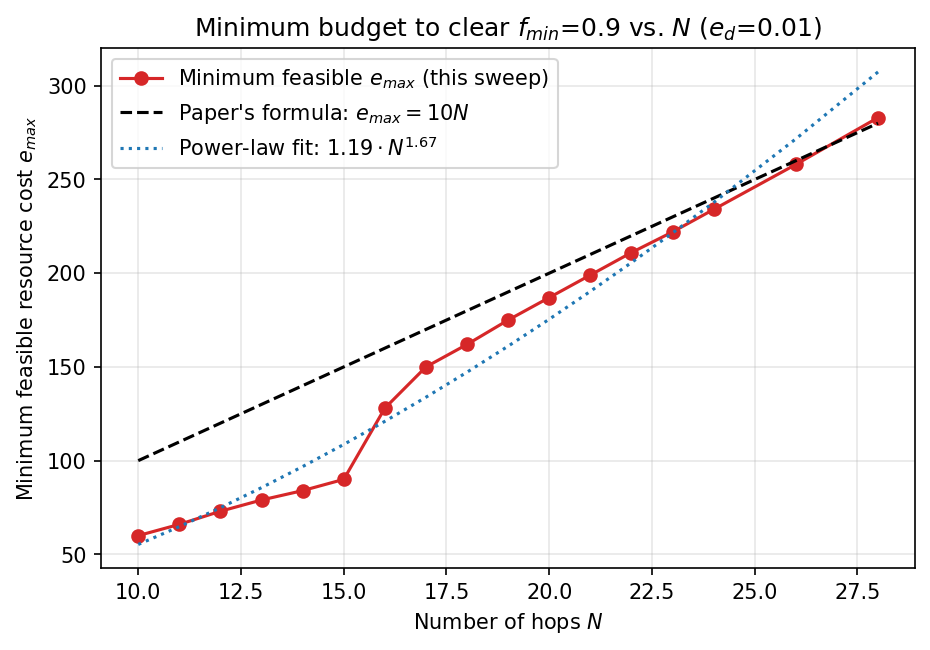
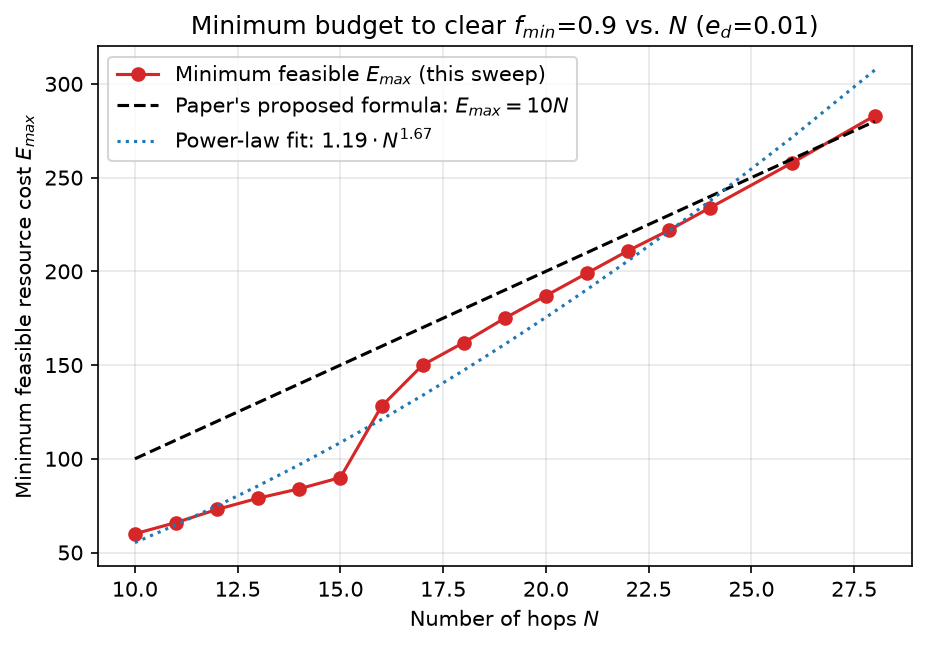
feat: fixed legend of Emax scaling with n figure

diff --git a/experiments/sweeps/sweep_min_budget_vs_n.py b/experiments/sweeps/sweep_min_budget_vs_n.py
@@ -2,35 +2,35 @@
 experiments/sweep_min_budget_vs_n.py
 =====================================
 `docs/Roadmap_Derisk_and_Reframe.md`, §2: the scaling-law question. At
-each `N` in `N_VALUES`, find the *smallest* `e_max` at which
+each `N` in `N_VALUES`, find the *smallest* `E_max` at which
 `beam_search` (unioned with `brute_force_search`'s fixed families, as
 usual) finds ANY schedule clearing the fidelity floor `f_min=0.9`,
-rather than stopping at the paper's own `e_max = 10*N` cost formula.
+rather than stopping at the paper's own `E_max = 10*N` cost formula.
 
 Method: bisection, not a linear scan [§2.1]
 --------------------------------------------
 For each `N`:
 
-1. Check feasibility at the paper's own budget, `e_max = 10*N`.
+1. Check feasibility at the paper's own budget, `E_max = 10*N`.
    Note: `10*N` comes from the paper's hardware model (5 half-RGS copies
    per side × 2 sides × N hops). The sweep has empirically found that this
    formula is first *insufficient* for beam_search's pumping-enabled families
-   at N=28 (min. feasible e_max=283 > 280, ratio 1.011x); N=26 is still
+   at N=28 (min. feasible E_max=283 > 280, ratio 1.011x); N=26 is still
    below 1.0x (0.992x). The crossover lies between N=26 and N=28 at e_d=0.01.
 2. If infeasible there (as `sweep_hop_count` already found at `N=14`,
    `N=18`): exponential-search upward -- try `4*10*N`, then double again
-   and again, until a feasible `e_max` is found.
+   and again, until a feasible `E_max` is found.
 3. If feasible there instead (as at `N<=10`, where the paper's own
    schedule already clears the floor): exponential-search *downward*
-   -- halve repeatedly until an infeasible `e_max` is found. This
+   -- halve repeatedly until an infeasible `E_max` is found. This
    direction is not spelled out explicitly in the roadmap (which frames
    the paper's budget as "already known infeasible"), but is needed for
    a full `N=10..18` trend line and follows the identical bisection
    logic in the other direction.
 4. Bisect between the last-infeasible and first-feasible point until the
-   minimum feasible `e_max` is pinned down to within `+/- 2` (`e_max` is
+   minimum feasible `E_max` is pinned down to within `+/- 2` (`E_max` is
    effectively discretized by Gen-node counts anyway).
-5. Cache every `beam_search` call by `(N, e_max)` so no point already
+5. Cache every `beam_search` call by `(N, E_max)` so no point already
    queried during the exponential search or an earlier bisection step is
    ever recomputed.
 
@@ -40,7 +40,7 @@ For each `N`:
 `brute_force_search`'s three fixed families). It does NOT include the
 excluded same-span-purification move validated at N=3/N=14/N=18. Per
 §1's result, that move rescues feasibility at N=18 at exactly the
-paper's own budget (`e_max=180`, `F=0.928596`) -- i.e. a real schedule
+paper's own budget (`E_max=180`, `F=0.928596`) -- i.e. a real schedule
 already exists there requiring no MORE than `10*N`. So any
 "minimum required budget > 10*N" claim produced by this script describes
 a limitation of the *searched* families (`beam_search`/`dp_search`'s
@@ -49,12 +49,12 @@ This distinction is stated explicitly in the generated README, per
 §2.2's explicit instruction to scope this honestly.
 
 **Bisection monotonicity caveat**: this method assumes feasibility is
-monotonically non-decreasing in `e_max` (more budget can only help).
+monotonically non-decreasing in `E_max` (more budget can only help).
 This holds for the *exact* DP frontier by construction (a larger budget
 cap is a strict superset of a smaller one's candidate space), but
 `beam_search`'s beam-pruning is a heuristic on top of that, so in
 principle a specific beam width could (rarely) miss a feasible
-candidate at a larger `e_max` that it would have found at a smaller one.
+candidate at a larger `E_max` that it would have found at a smaller one.
 No such non-monotonicity was observed in this run (see README), but this
 assumption is not proven exhaustively.
 
@@ -94,7 +94,7 @@ BEAM_WIDTH = 25
 N_VALUES = [24, 26, 28]
 
 # Safety cap on the exponential upward search, as a multiple of the
-# paper's own e_max=10*N, to avoid an unbounded doubling loop if
+# paper's own E_max=10*N, to avoid an unbounded doubling loop if
 # `beam_search`'s reachable families genuinely never clear the floor at
 # this N (would be a notable finding in itself, reported as such rather
 # than hung on).
@@ -117,7 +117,7 @@ OUTPUT_DIR = _PROJECT_ROOT / "outputs" / "sweep_min_budget_vs_n"
 def parse_args() -> argparse.Namespace:
     parser = argparse.ArgumentParser(
         description=(
-            "Sweep minimum feasible e_max vs N, or regenerate plot/README "
+            "Sweep minimum feasible E_max vs N, or regenerate plot/README "
             "from an existing concatenated results.csv."
         )
     )
@@ -167,20 +167,20 @@ def _check(
     e_max: int,
     cache: dict[int, tuple[bool, SearchResult]],
 ) -> tuple[bool, SearchResult]:
-    """Run (or retrieve cached) `beam_search` at *e_max*, return
+    """Run (or retrieve cached) `beam_search` at *E_max*, return
     `(feasible, best_result)`, restricted to candidates that actually
-    respect `resource_cost <= e_max`.
+    respect `resource_cost <= E_max`.
 
     `beam_search`'s span-partition candidates are already filtered by
-    `e_max`, but `brute_force_search`'s "raw" (`n_pur=1`) baseline family
-    is unconditionally included regardless of `e_max` (see
+    `E_max`, but `brute_force_search`'s "raw" (`n_pur=1`) baseline family
+    is unconditionally included regardless of `E_max` (see
     `brute_force.py`'s `record(ScheduleDAG.raw_chain(N), "raw")` call,
     which is not budget-gated like the `n_pur >= 2` families are). At the
-    normal budgets used elsewhere in this report (`e_max=10*N`), `raw`'s
+    normal budgets used elsewhere in this report (`E_max=10*N`), `raw`'s
     fixed cost (`2*N`) is always comfortably under budget so this never
-    mattered -- but this bisection actively probes `e_max` values well
+    mattered -- but this bisection actively probes `E_max` values well
     below `2*N`, which would otherwise let `raw` slip through as a false
-    "feasible at e_max=1" result. Re-filtering by cost here is the fix.
+    "feasible at E_max=1" result. Re-filtering by cost here is the fix.
     """
     if e_max not in cache:
         # Pumping enabled (default): this re-run uses the current
@@ -246,7 +246,7 @@ def find_min_budget(N: int) -> MinBudgetResult:
         while True:
             feasible, best = _check(net, obj, hi, cache)
             print(
-                f"  N={N}: probe e_max={hi} -> "
+                f"  N={N}: probe E_max={hi} -> "
                 f"{'feasible' if feasible else 'infeasible'}, "
                 f"F={best.eval_result.fidelity:.4f} ({time.time() - t0:.1f}s)",
                 flush=True,
@@ -257,7 +257,7 @@ def find_min_budget(N: int) -> MinBudgetResult:
             hi *= 2
             if hi > cap:
                 print(
-                    f"  N={N}: WARNING -- no feasible e_max found up to "
+                    f"  N={N}: WARNING -- no feasible E_max found up to "
                     f"{cap} ({_MAX_UPWARD_MULTIPLE}x the paper's budget); "
                     "giving up upward search, reporting best-effort result "
                     "at the cap.",
@@ -278,13 +278,13 @@ def find_min_budget(N: int) -> MinBudgetResult:
                     wall_time_s=time.time() - t0,
                 )
 
-    # Bisect between lo (infeasible, or 0 if even e_max=1 is feasible)
+    # Bisect between lo (infeasible, or 0 if even E_max=1 is feasible)
     # and hi (feasible) to within +/- _BISECTION_TOLERANCE.
     while hi - lo > _BISECTION_TOLERANCE:
         mid = (lo + hi) // 2
         feasible, best = _check(net, obj, mid, cache)
         print(
-            f"  N={N}: bisect e_max={mid} -> "
+            f"  N={N}: bisect E_max={mid} -> "
             f"{'feasible' if feasible else 'infeasible'}, "
             f"F={best.eval_result.fidelity:.4f} ({time.time() - t0:.1f}s)",
             flush=True,
@@ -297,7 +297,7 @@ def find_min_budget(N: int) -> MinBudgetResult:
     _, best_hi = _check(net, obj, hi, cache)
     elapsed = time.time() - t0
     print(
-        f"  N={N}: done, min feasible e_max={hi} "
+        f"  N={N}: done, min feasible E_max={hi} "
         f"(paper's own budget was {paper_e_max}), "
         f"{len(cache)} beam_search calls, {elapsed:.1f}s total",
         flush=True,
@@ -379,8 +379,8 @@ def read_results_csv(path: Path) -> list[MinBudgetResult]:
 
 
 def _power_law_fit(rows: list[MinBudgetResult]) -> tuple[float, float] | None:
-    """Fit `min_feasible_e_max ~ a * N^b` via least squares on
-    `log(min_feasible_e_max) = log(a) + b*log(N)`. Returns `(a, b)`, or
+    """Fit `min_feasible_E_max ~ a * N^b` via least squares on
+    `log(min_feasible_E_max) = log(a) + b*log(N)`. Returns `(a, b)`, or
     None if fewer than 2 valid points are available."""
     pts = [
         (math.log(r.N), math.log(r.min_feasible_e_max))
@@ -412,7 +412,7 @@ def make_plot(rows: list[MinBudgetResult]) -> tuple[float, float] | None:
         [r.min_feasible_e_max for r in valid],
         marker="o",
         color="tab:red",
-        label="Minimum feasible $e_{max}$ (this sweep)",
+        label="Minimum feasible $E_{max}$ (this sweep)",
     )
     ns = [r.N for r in rows]
     ax.plot(
@@ -420,7 +420,7 @@ def make_plot(rows: list[MinBudgetResult]) -> tuple[float, float] | None:
         [10 * n for n in ns],
         linestyle="--",
         color="black",
-        label="Paper's formula: $e_{max} = 10N$",
+        label="Paper's proposed formula: $E_{max} = 10N$",
     )
 
     fit = _power_law_fit(valid)
@@ -436,7 +436,7 @@ def make_plot(rows: list[MinBudgetResult]) -> tuple[float, float] | None:
         )
 
     ax.set_xlabel("Number of hops $N$")
-    ax.set_ylabel("Minimum feasible resource cost $e_{max}$")
+    ax.set_ylabel("Minimum feasible resource cost $E_{max}$")
     ax.set_title(f"Minimum budget to clear $f_{{min}}$={F_MIN} vs. $N$ ($e_d$={E_D})")
     ax.grid(alpha=0.3)
     ax.legend()
@@ -453,11 +453,11 @@ def write_readme(
     lines.append("")
     lines.append(
         "Per [docs/Roadmap_Derisk_and_Reframe.md](../../docs/Roadmap_Derisk_and_Reframe.md), "
-        "§2: at each `N`, find the smallest `e_max` at which `beam_search` "
+        "§2: at each `N`, find the smallest `E_max` at which `beam_search` "
         "(unioned with `brute_force_search`'s fixed families, as in every "
         "other sweep in this report) finds ANY schedule clearing the "
         f"fidelity floor `f_min={F_MIN}`, rather than assuming the paper's "
-        "own `e_max = 10*N` cost formula is sufficient."
+        "own `E_max = 10*N` cost formula is sufficient."
     )
     lines.append("")
     lines.append(
@@ -465,8 +465,8 @@ def write_readme(
         "[outputs/excluded_move_n14_n18/README.md](../excluded_move_n14_n18/README.md) "
         "found that the excluded same-span-purification move (out of scope "
         "for `dp_search`/`beam_search`) rescues feasibility at `N=18` at "
-        "exactly the paper's own budget (`e_max=180`, `F=0.928596`). So any "
-        "row below reporting `min_feasible_e_max > paper_e_max` describes a "
+        "exactly the paper's own budget (`E_max=180`, `F=0.928596`). So any "
+        "row below reporting `min_feasible_E_max > paper_E_max` describes a "
         "limitation of the schedule families `beam_search` can reach, "
         "**not** a true lower bound on what any valid schedule needs at that "
         "`N`. This is a claim about this codebase's searched families, "
@@ -477,7 +477,7 @@ def write_readme(
     lines.append("## Results")
     lines.append("")
     lines.append(
-        "| N | Paper's $e_{max}=10N$ | Min. feasible $e_{max}$ (this sweep) | "
+        "| N | Paper's $E_{max}=10N$ | Min. feasible $E_{max}$ (this sweep) | "
         "Ratio | Best F at min. budget | Best label |"
     )
     lines.append("|---|---|---|---|---|---|")
@@ -499,7 +499,7 @@ def write_readme(
         a, b = fit
         lines.append(
             f"**Descriptive power-law fit** (least squares on log-log data, "
-            f"valid points only): $e_{{max}}^{{min}} \\approx {a:.3f} \\cdot "
+            f"valid points only): $E_{{max}}^{{min}} \\approx {a:.3f} \\cdot "
             f"N^{{{b:.3f}}}$. "
             + (
                 "The fitted exponent exceeds 1, i.e. the minimum required "
@@ -528,8 +528,8 @@ def write_readme(
     lines.append("")
     for r in rows:
         lines.append(
-            f"- **N={r.N}**: paper's `e_max`={r.paper_e_max}, min. feasible "
-            f"`e_max`={'not found' if r.min_feasible_e_max < 0 else r.min_feasible_e_max}, "
+            f"- **N={r.N}**: paper's `E_max`={r.paper_e_max}, min. feasible "
+            f"`E_max`={'not found' if r.min_feasible_e_max < 0 else r.min_feasible_e_max}, "
             f"best schedule found there: `{r.best_label}`, F={r.best_fidelity:.4f}, "
             f"success_prob={r.best_success_prob:.4f}, rate={r.best_rate:.4f}, "
             f"cost={r.best_cost}. ({r.n_beam_search_calls} `beam_search` calls, "
@@ -541,16 +541,16 @@ def write_readme(
     lines.append("")
     lines.append(
         "- Bisection assumes feasibility is monotonically non-decreasing in "
-        "`e_max`. This holds for the exact DP frontier by construction, but "
+        "`E_max`. This holds for the exact DP frontier by construction, but "
         "`beam_search`'s beam-pruning is a heuristic on top of that -- no "
         "non-monotonicity was observed in this run's cached probe history "
         "(see `results.csv` for the final endpoints), but this was not "
         "exhaustively verified at every intermediate probe."
     )
     lines.append(
-        "- The minimum feasible `e_max` is pinned down to within "
+        "- The minimum feasible `E_max` is pinned down to within "
         f"`+/- {_BISECTION_TOLERANCE}`, not exactly, consistent with "
-        "`e_max` being discretized by Gen-node counts anyway."
+        "`E_max` being discretized by Gen-node counts anyway."
     )
     lines.append("")
 

diff --git a/experiments/thesis_scripts/_thesis_fig_budget.py b/experiments/thesis_scripts/_thesis_fig_budget.py
@@ -91,7 +91,7 @@ def main() -> None:
         linestyle="--",
         color="black",
         linewidth=1.3,
-        label="Paper's formula: $E_{max}=10N$",
+        label="Paper's proposed formula: $E_{max}=10N$",
     )
 
     # Fitted power law: solid over the measured range, dotted/lighter
@@ -126,7 +126,7 @@ def main() -> None:
         linestyle=":",
         color="tab:blue",
         alpha=0.6,
-        label="Power-law fit (extrapolated beyond N=10--28)",
+        label="Power-law fit (extrapolated beyond N=10-28)",
     )
 
     ax.scatter(
@@ -136,7 +136,7 @@ def main() -> None:
         marker="o",
         s=32,
         zorder=3,
-        label="Minimum feasible $E_{max}$ (measured, N=10--28)",
+        label="Minimum feasible $E_{max}^{min}$ (measured, N=10-28)",
     )
 
     ax.set_xlabel("Number of hops $N$", fontsize=11)

diff --git a/outputs/sweep_min_budget_vs_n/README.md b/outputs/sweep_min_budget_vs_n/README.md
@@ -1,12 +1,12 @@
 # Minimum Required Budget vs. N (the scaling-law question)
 
-Per [docs/Roadmap_Derisk_and_Reframe.md](../../docs/Roadmap_Derisk_and_Reframe.md), §2: at each `N`, find the smallest `e_max` at which `beam_search` (unioned with `brute_force_search`'s fixed families, as in every other sweep in this report) finds ANY schedule clearing the fidelity floor `f_min=0.9`, rather than assuming the paper's own `e_max = 10*N` cost formula is sufficient.
+Per [docs/Roadmap_Derisk_and_Reframe.md](../../docs/Roadmap_Derisk_and_Reframe.md), §2: at each `N`, find the smallest `E_max` at which `beam_search` (unioned with `brute_force_search`'s fixed families, as in every other sweep in this report) finds ANY schedule clearing the fidelity floor `f_min=0.9`, rather than assuming the paper's own `E_max = 10*N` cost formula is sufficient.
 
-**Scoping note (required by §2.2, carried over from §1's result):** [outputs/excluded_move_n14_n18/README.md](../excluded_move_n14_n18/README.md) found that the excluded same-span-purification move (out of scope for `dp_search`/`beam_search`) rescues feasibility at `N=18` at exactly the paper's own budget (`e_max=180`, `F=0.928596`). So any row below reporting `min_feasible_e_max > paper_e_max` describes a limitation of the schedule families `beam_search` can reach, **not** a true lower bound on what any valid schedule needs at that `N`. This is a claim about this codebase's searched families, consistent with the hedge used throughout [docs/Optimality Scope.md](../../docs/Optimality%20Scope.md).
+**Scoping note (required by §2.2, carried over from §1's result):** [outputs/excluded_move_n14_n18/README.md](../excluded_move_n14_n18/README.md) found that the excluded same-span-purification move (out of scope for `dp_search`/`beam_search`) rescues feasibility at `N=18` at exactly the paper's own budget (`E_max=180`, `F=0.928596`). So any row below reporting `min_feasible_E_max > paper_E_max` describes a limitation of the schedule families `beam_search` can reach, **not** a true lower bound on what any valid schedule needs at that `N`. This is a claim about this codebase's searched families, consistent with the hedge used throughout [docs/Optimality Scope.md](../../docs/Optimality%20Scope.md).
 
 ## Results
 
-| N | Paper's $e_{max}=10N$ | Min. feasible $e_{max}$ (this sweep) | Ratio | Best F at min. budget | Best label |
+| N | Paper's $E_{max}=10N$ | Min. feasible $E_{max}$ (this sweep) | Ratio | Best F at min. budget | Best label |
 |---|---|---|---|---|---|
 | 10 | 100 | 60 | 0.600x | 0.9063 | end_optimistic.n3.YY_ZX |
 | 11 | 110 | 66 | 0.600x | 0.9282 | link.n3.YY_ZX |
@@ -26,34 +26,34 @@ Per [docs/Roadmap_Derisk_and_Reframe.md](../../docs/Roadmap_Derisk_and_Reframe.m
 | 26 | 260 | 258 | 0.992x | 0.9014 | beam.span.(pump[YY](hop0.n3.YY_ZX,hop0.n3.YY_ZX)+(pump[YY](hop1.n3.YY_ZX,hop1.n3.YY_ZX)+(pump[YY](hop2.n3.YY_ZX,hop2.n3.YY_ZX)+(pump[YY](hop3.n3.YY_ZX,hop3.n3.YY_ZX)+(pump[YY](hop4.n3.YY_ZX,hop4.n3.YY_ZX)+(pump[YY](hop5.n3.YY_ZX,hop5.n3.YY_ZX)+(pump[YY](hop6.n3.YY_ZX,hop6.n3.YY_ZX)+(pump[YY](hop7.n3.YY_ZX,hop7.n3.YY_ZX)+(pump[YY](hop8.n3.YY_ZX,hop8.n3.YY_ZX)+(pump[YY](hop9.n3.YY_ZX,hop9.n3.YY_ZX)+(pump[YY](hop10.n3.YY_ZX,hop10.n3.YY_ZX)+(pump[YY](hop11.n3.YY_ZX,hop11.n3.YY_ZX)+(pump[YY](hop12.n3.YY_ZX,hop12.n3.YY_ZX)+(pump[YY](hop13.n3.YY_ZX,hop13.n3.YY_ZX)+(pump[YY](hop14.n3.YY_ZX,hop14.n3.YY_ZX)+(pump[YY](hop15.n3.YY_ZX,hop15.n3.YY_ZX)+(pump[YY](hop16.n3.YY_ZX,hop16.n3.YY_ZX)+(pump[YY](hop17.n3.YY_ZX,hop17.n3.YY_ZX)+(pump[YY](hop18.n3.YY_ZX,hop18.n3.YY_ZX)+(pump[YY](hop19.n3.YY_ZX,hop19.n3.YY_ZX)+(hop20.n3.ZX_YY+(hop21.n2.YY+((hop22+hop23)+(hop24+hop25)))))))))))))))))))))))) |
 | 28 | 280 | 283 | 1.011x | 0.9010 | beam.span.(pump[YY](hop0.n3.YY_ZX,hop0.n3.YY_ZX)+(pump[YY](hop1.n3.YY_ZX,hop1.n3.YY_ZX)+(pump[YY](hop2.n3.YY_ZX,hop2.n3.YY_ZX)+(pump[YY](hop3.n3.YY_ZX,hop3.n3.YY_ZX)+(pump[YY](hop4.n3.YY_ZX,hop4.n3.YY_ZX)+(pump[YY](hop5.n3.YY_ZX,hop5.n3.YY_ZX)+(pump[YY](hop6.n3.YY_ZX,hop6.n3.YY_ZX)+(pump[YY](hop7.n3.YY_ZX,hop7.n3.YY_ZX)+(pump[YY](hop8.n3.YY_ZX,hop8.n3.YY_ZX)+(pump[YY](hop9.n3.YY_ZX,hop9.n3.YY_ZX)+(pump[YY](hop10.n3.YY_ZX,hop10.n3.YY_ZX)+(pump[YY](hop11.n3.YY_ZX,hop11.n3.YY_ZX)+(pump[YY](hop12.n3.YY_ZX,hop12.n3.YY_ZX)+(pump[YY](hop13.n3.YY_ZX,hop13.n3.YY_ZX)+(pump[YY](hop14.n3.YY_ZX,hop14.n3.YY_ZX)+(pump[YY](hop15.n3.YY_ZX,hop15.n3.YY_ZX)+(pump[YY](hop16.n3.YY_ZX,hop16.n3.YY_ZX)+(pump[YY](hop17.n3.YY_ZX,hop17.n3.YY_ZX)+(pump[YY](hop18.n3.YY_ZX,hop18.n3.YY_ZX)+(pump[YY](hop19.n3.YY_ZX,hop19.n3.YY_ZX)+(pump[YY](hop20.n3.YY_ZX,hop20.n3.YY_ZX)+(pump[YY](hop21.n3.YY_ZX,hop21.n3.YY_ZX)+(hop22.n3.ZX_YY+(hop23.n2.YY+((hop24+hop25)+(hop26+hop27)))))))))))))))))))))))))) |
 
-**Descriptive power-law fit** (least squares on log-log data, valid points only): $e_{max}^{min} \approx 1.192 \cdot N^{1.666}$. The fitted exponent exceeds 1, i.e. the minimum required budget within this sweep's searched families grows faster than the paper's own linear `10*N` formula.
+**Descriptive power-law fit** (least squares on log-log data, valid points only): $E_{max}^{min} \approx 1.192 \cdot N^{1.666}$. The fitted exponent exceeds 1, i.e. the minimum required budget within this sweep's searched families grows faster than the paper's own linear `10*N` formula.
 
 This fit is descriptive, not a rigorous asymptotic claim -- it is over a small number of points (17) and is sensitive to the specific N values tested.
 
 ## Details
 
-- **N=10**: paper's `e_max`=100, min. feasible `e_max`=60, best schedule found there: `end_optimistic.n3.YY_ZX`, F=0.9063, success_prob=0.6196, rate=6195.9511, cost=60. (7 `beam_search` calls, 79.2s.)
-- **N=11**: paper's `e_max`=110, min. feasible `e_max`=66, best schedule found there: `link.n3.YY_ZX`, F=0.9282, success_prob=0.5573, rate=5066.5521, cost=66. (7 `beam_search` calls, 120.2s.)
-- **N=12**: paper's `e_max`=120, min. feasible `e_max`=73, best schedule found there: `link.n3.YY_ZX`, F=0.9222, success_prob=0.5285, rate=4403.9523, cost=72. (7 `beam_search` calls, 159.7s.)
-- **N=13**: paper's `e_max`=130, min. feasible `e_max`=79, best schedule found there: `link.n3.YY_ZX`, F=0.9163, success_prob=0.5011, rate=3854.7761, cost=78. (7 `beam_search` calls, 230.1s.)
-- **N=14**: paper's `e_max`=140, min. feasible `e_max`=84, best schedule found there: `link.n3.YY_ZX`, F=0.9104, success_prob=0.4752, rate=3394.1664, cost=84. (7 `beam_search` calls, 290.1s.)
-- **N=15**: paper's `e_max`=150, min. feasible `e_max`=90, best schedule found there: `link.n3.YY_ZX`, F=0.9047, success_prob=0.4506, rate=3003.9213, cost=90. (7 `beam_search` calls, 393.4s.)
-- **N=16**: paper's `e_max`=160, min. feasible `e_max`=128, best schedule found there: `link.n4.YY_ZX_YY`, F=0.9003, success_prob=0.3095, rate=1934.3196, cost=128. (8 `beam_search` calls, 571.4s.)
-- **N=17**: paper's `e_max`=170, min. feasible `e_max`=150, best schedule found there: `beam.span.(pump[YY](hop0.n3.YY_ZX,hop0.n3.YY_ZX)+(pump[YY](hop1.n3.YY_ZX,hop1.n3.YY_ZX)+(pump[YY](hop2.n3.YY_ZX,hop2.n3.YY_ZX)+(pump[YY](hop3.n3.YY_ZX,hop3.n3.YY_ZX)+(pump[YY](hop4.n3.YY_ZX,hop4.n3.YY_ZX)+(pump[YY](hop5.n3.YY_ZX,hop5.n3.YY_ZX)+(pump[YY](hop6.n3.YY_ZX,hop6.n3.YY_ZX)+(pump[YY](hop7.n3.YY_ZX,hop7.n3.YY_ZX)+(pump[YY](hop8.n3.YY_ZX,hop8.n3.YY_ZX)+(pump[YY](hop9.n3.YY_ZX,hop9.n3.YY_ZX)+(pump[YY](hop10.n3.YY_ZX,hop10.n3.YY_ZX)+(hop11.n3.ZX_YY+(hop12.n2.YY+((hop13+hop14)+(hop15+hop16)))))))))))))))`, F=0.9032, success_prob=0.2465, rate=1449.8993, cost=150. (7 `beam_search` calls, 628.7s.)
-- **N=18**: paper's `e_max`=180, min. feasible `e_max`=162, best schedule found there: `beam.span.(pump[YY](hop0.n3.YY_ZX,hop0.n3.YY_ZX)+(pump[YY](hop1.n3.YY_ZX,hop1.n3.YY_ZX)+(pump[YY](hop2.n3.YY_ZX,hop2.n3.YY_ZX)+(pump[YY](hop3.n3.YY_ZX,hop3.n3.YY_ZX)+(pump[YY](hop4.n3.YY_ZX,hop4.n3.YY_ZX)+(pump[YY](hop5.n3.YY_ZX,hop5.n3.YY_ZX)+(pump[YY](hop6.n3.YY_ZX,hop6.n3.YY_ZX)+(pump[YY](hop7.n3.YY_ZX,hop7.n3.YY_ZX)+(pump[YY](hop8.n3.YY_ZX,hop8.n3.YY_ZX)+(pump[YY](hop9.n3.YY_ZX,hop9.n3.YY_ZX)+(pump[YY](hop10.n3.YY_ZX,hop10.n3.YY_ZX)+(pump[YY](hop11.n3.YY_ZX,hop11.n3.YY_ZX)+(hop12.n3.ZX_YY+(hop13.n2.YY+((hop14+hop15)+(hop16+hop17))))))))))))))))`, F=0.9030, success_prob=0.2186, rate=1214.4122, cost=162. (8 `beam_search` calls, 915.7s.)
-- **N=19**: paper's `e_max`=190, min. feasible `e_max`=175, best schedule found there: `beam.span.(pump[YY](hop0.n3.YY_ZX,hop0.n3.YY_ZX)+(pump[YY](hop1.n3.YY_ZX,hop1.n3.YY_ZX)+(pump[YY](hop2.n3.YY_ZX,hop2.n3.YY_ZX)+(pump[YY](hop3.n3.YY_ZX,hop3.n3.YY_ZX)+(pump[YY](hop4.n3.YY_ZX,hop4.n3.YY_ZX)+(pump[YY](hop5.n3.YY_ZX,hop5.n3.YY_ZX)+(pump[YY](hop6.n3.YY_ZX,hop6.n3.YY_ZX)+(pump[YY](hop7.n3.YY_ZX,hop7.n3.YY_ZX)+(pump[YY](hop8.n3.YY_ZX,hop8.n3.YY_ZX)+(pump[YY](hop9.n3.YY_ZX,hop9.n3.YY_ZX)+(pump[YY](hop10.n3.YY_ZX,hop10.n3.YY_ZX)+(pump[YY](hop11.n3.YY_ZX,hop11.n3.YY_ZX)+(pump[YY](hop12.n3.YY_ZX,hop12.n3.YY_ZX)+(hop13.n3.ZX_YY+(hop14.n2.YY+((hop15+hop16)+(hop17+hop18)))))))))))))))))`, F=0.9028, success_prob=0.1939, rate=1020.3212, cost=174. (8 `beam_search` calls, 1073.1s.)
-- **N=20**: paper's `e_max`=200, min. feasible `e_max`=187, best schedule found there: `beam.span.(pump[YY](hop0.n3.YY_ZX,hop0.n3.YY_ZX)+(pump[YY](hop1.n3.YY_ZX,hop1.n3.YY_ZX)+(pump[YY](hop2.n3.YY_ZX,hop2.n3.YY_ZX)+(pump[YY](hop3.n3.YY_ZX,hop3.n3.YY_ZX)+(pump[YY](hop4.n3.YY_ZX,hop4.n3.YY_ZX)+(pump[YY](hop5.n3.YY_ZX,hop5.n3.YY_ZX)+(pump[YY](hop6.n3.YY_ZX,hop6.n3.YY_ZX)+(pump[YY](hop7.n3.YY_ZX,hop7.n3.YY_ZX)+(pump[YY](hop8.n3.YY_ZX,hop8.n3.YY_ZX)+(pump[YY](hop9.n3.YY_ZX,hop9.n3.YY_ZX)+(pump[YY](hop10.n3.YY_ZX,hop10.n3.YY_ZX)+(pump[YY](hop11.n3.YY_ZX,hop11.n3.YY_ZX)+(pump[YY](hop12.n3.YY_ZX,hop12.n3.YY_ZX)+(pump[YY](hop13.n3.YY_ZX,hop13.n3.YY_ZX)+(hop14.n3.ZX_YY+(hop15.n2.YY+((hop16+hop17)+(hop18+hop19))))))))))))))))))`, F=0.9026, success_prob=0.1719, rate=859.6317, cost=186. (8 `beam_search` calls, 1230.7s.)
-- **N=21**: paper's `e_max`=210, min. feasible `e_max`=199, best schedule found there: `beam.span.(pump[YY](hop0.n3.YY_ZX,hop0.n3.YY_ZX)+(pump[YY](hop1.n3.YY_ZX,hop1.n3.YY_ZX)+(pump[YY](hop2.n3.YY_ZX,hop2.n3.YY_ZX)+(pump[YY](hop3.n3.YY_ZX,hop3.n3.YY_ZX)+(pump[YY](hop4.n3.YY_ZX,hop4.n3.YY_ZX)+(pump[YY](hop5.n3.YY_ZX,hop5.n3.YY_ZX)+(pump[YY](hop6.n3.YY_ZX,hop6.n3.YY_ZX)+(pump[YY](hop7.n3.YY_ZX,hop7.n3.YY_ZX)+(pump[YY](hop8.n3.YY_ZX,hop8.n3.YY_ZX)+(pump[YY](hop9.n3.YY_ZX,hop9.n3.YY_ZX)+(pump[YY](hop10.n3.YY_ZX,hop10.n3.YY_ZX)+(pump[YY](hop11.n3.YY_ZX,hop11.n3.YY_ZX)+(pump[YY](hop12.n3.YY_ZX,hop12.n3.YY_ZX)+(pump[YY](hop13.n3.YY_ZX,hop13.n3.YY_ZX)+(pump[YY](hop14.n3.YY_ZX,hop14.n3.YY_ZX)+(hop15.n3.ZX_YY+(hop16.n2.YY+((hop17+hop18)+(hop19+hop20)))))))))))))))))))`, F=0.9024, success_prob=0.1525, rate=726.0641, cost=198. (8 `beam_search` calls, 1223.5s.)
-- **N=22**: paper's `e_max`=220, min. feasible `e_max`=211, best schedule found there: `beam.span.(pump[YY](hop0.n3.YY_ZX,hop0.n3.YY_ZX)+(pump[YY](hop1.n3.YY_ZX,hop1.n3.YY_ZX)+(pump[YY](hop2.n3.YY_ZX,hop2.n3.YY_ZX)+(pump[YY](hop3.n3.YY_ZX,hop3.n3.YY_ZX)+(pump[YY](hop4.n3.YY_ZX,hop4.n3.YY_ZX)+(pump[YY](hop5.n3.YY_ZX,hop5.n3.YY_ZX)+(pump[YY](hop6.n3.YY_ZX,hop6.n3.YY_ZX)+(pump[YY](hop7.n3.YY_ZX,hop7.n3.YY_ZX)+(pump[YY](hop8.n3.YY_ZX,hop8.n3.YY_ZX)+(pump[YY](hop9.n3.YY_ZX,hop9.n3.YY_ZX)+(pump[YY](hop10.n3.YY_ZX,hop10.n3.YY_ZX)+(pump[YY](hop11.n3.YY_ZX,hop11.n3.YY_ZX)+(pump[YY](hop12.n3.YY_ZX,hop12.n3.YY_ZX)+(pump[YY](hop13.n3.YY_ZX,hop13.n3.YY_ZX)+(pump[YY](hop14.n3.YY_ZX,hop14.n3.YY_ZX)+(pump[YY](hop15.n3.YY_ZX,hop15.n3.YY_ZX)+(hop16.n3.ZX_YY+(hop17.n2.YY+((hop18+hop19)+(hop20+hop21))))))))))))))))))))`, F=0.9022, success_prob=0.1352, rate=614.6438, cost=210. (8 `beam_search` calls, 1457.6s.)
-- **N=23**: paper's `e_max`=230, min. feasible `e_max`=222, best schedule found there: `beam.span.(pump[YY](hop0.n3.YY_ZX,hop0.n3.YY_ZX)+(pump[YY](hop1.n3.YY_ZX,hop1.n3.YY_ZX)+(pump[YY](hop2.n3.YY_ZX,hop2.n3.YY_ZX)+(pump[YY](hop3.n3.YY_ZX,hop3.n3.YY_ZX)+(pump[YY](hop4.n3.YY_ZX,hop4.n3.YY_ZX)+(pump[YY](hop5.n3.YY_ZX,hop5.n3.YY_ZX)+(pump[YY](hop6.n3.YY_ZX,hop6.n3.YY_ZX)+(pump[YY](hop7.n3.YY_ZX,hop7.n3.YY_ZX)+(pump[YY](hop8.n3.YY_ZX,hop8.n3.YY_ZX)+(pump[YY](hop9.n3.YY_ZX,hop9.n3.YY_ZX)+(pump[YY](hop10.n3.YY_ZX,hop10.n3.YY_ZX)+(pump[YY](hop11.n3.YY_ZX,hop11.n3.YY_ZX)+(pump[YY](hop12.n3.YY_ZX,hop12.n3.YY_ZX)+(pump[YY](hop13.n3.YY_ZX,hop13.n3.YY_ZX)+(pump[YY](hop14.n3.YY_ZX,hop14.n3.YY_ZX)+(pump[YY](hop15.n3.YY_ZX,hop15.n3.YY_ZX)+(pump[YY](hop16.n3.YY_ZX,hop16.n3.YY_ZX)+(hop17.n3.ZX_YY+(hop18.n2.YY+((hop19+hop20)+(hop21+hop22)))))))))))))))))))))`, F=0.9020, success_prob=0.1199, rate=521.3990, cost=222. (8 `beam_search` calls, 1713.4s.)
-- **N=24**: paper's `e_max`=240, min. feasible `e_max`=234, best schedule found there: `beam.span.(pump[YY](hop0.n3.YY_ZX,hop0.n3.YY_ZX)+(pump[YY](hop1.n3.YY_ZX,hop1.n3.YY_ZX)+(pump[YY](hop2.n3.YY_ZX,hop2.n3.YY_ZX)+(pump[YY](hop3.n3.YY_ZX,hop3.n3.YY_ZX)+(pump[YY](hop4.n3.YY_ZX,hop4.n3.YY_ZX)+(pump[YY](hop5.n3.YY_ZX,hop5.n3.YY_ZX)+(pump[YY](hop6.n3.YY_ZX,hop6.n3.YY_ZX)+(pump[YY](hop7.n3.YY_ZX,hop7.n3.YY_ZX)+(pump[YY](hop8.n3.YY_ZX,hop8.n3.YY_ZX)+(pump[YY](hop9.n3.YY_ZX,hop9.n3.YY_ZX)+(pump[YY](hop10.n3.YY_ZX,hop10.n3.YY_ZX)+(pump[YY](hop11.n3.YY_ZX,hop11.n3.YY_ZX)+(pump[YY](hop12.n3.YY_ZX,hop12.n3.YY_ZX)+(pump[YY](hop13.n3.YY_ZX,hop13.n3.YY_ZX)+(pump[YY](hop14.n3.YY_ZX,hop14.n3.YY_ZX)+(pump[YY](hop15.n3.YY_ZX,hop15.n3.YY_ZX)+(pump[YY](hop16.n3.YY_ZX,hop16.n3.YY_ZX)+(pump[YY](hop17.n3.YY_ZX,hop17.n3.YY_ZX)+(hop18.n3.ZX_YY+(hop19.n2.YY+((hop20+hop21)+(hop22+hop23))))))))))))))))))))))`, F=0.9018, success_prob=0.1064, rate=443.1377, cost=234. (8 `beam_search` calls, 2144.8s.)
-- **N=26**: paper's `e_max`=260, min. feasible `e_max`=258, best schedule found there: `beam.span.(pump[YY](hop0.n3.YY_ZX,hop0.n3.YY_ZX)+(pump[YY](hop1.n3.YY_ZX,hop1.n3.YY_ZX)+(pump[YY](hop2.n3.YY_ZX,hop2.n3.YY_ZX)+(pump[YY](hop3.n3.YY_ZX,hop3.n3.YY_ZX)+(pump[YY](hop4.n3.YY_ZX,hop4.n3.YY_ZX)+(pump[YY](hop5.n3.YY_ZX,hop5.n3.YY_ZX)+(pump[YY](hop6.n3.YY_ZX,hop6.n3.YY_ZX)+(pump[YY](hop7.n3.YY_ZX,hop7.n3.YY_ZX)+(pump[YY](hop8.n3.YY_ZX,hop8.n3.YY_ZX)+(pump[YY](hop9.n3.YY_ZX,hop9.n3.YY_ZX)+(pump[YY](hop10.n3.YY_ZX,hop10.n3.YY_ZX)+(pump[YY](hop11.n3.YY_ZX,hop11.n3.YY_ZX)+(pump[YY](hop12.n3.YY_ZX,hop12.n3.YY_ZX)+(pump[YY](hop13.n3.YY_ZX,hop13.n3.YY_ZX)+(pump[YY](hop14.n3.YY_ZX,hop14.n3.YY_ZX)+(pump[YY](hop15.n3.YY_ZX,hop15.n3.YY_ZX)+(pump[YY](hop16.n3.YY_ZX,hop16.n3.YY_ZX)+(pump[YY](hop17.n3.YY_ZX,hop17.n3.YY_ZX)+(pump[YY](hop18.n3.YY_ZX,hop18.n3.YY_ZX)+(pump[YY](hop19.n3.YY_ZX,hop19.n3.YY_ZX)+(hop20.n3.ZX_YY+(hop21.n2.YY+((hop22+hop23)+(hop24+hop25))))))))))))))))))))))))`, F=0.9014, success_prob=0.0836, rate=321.7217, cost=258. (9 `beam_search` calls, 3103.9s.)
-- **N=28**: paper's `e_max`=280, min. feasible `e_max`=283, best schedule found there: `beam.span.(pump[YY](hop0.n3.YY_ZX,hop0.n3.YY_ZX)+(pump[YY](hop1.n3.YY_ZX,hop1.n3.YY_ZX)+(pump[YY](hop2.n3.YY_ZX,hop2.n3.YY_ZX)+(pump[YY](hop3.n3.YY_ZX,hop3.n3.YY_ZX)+(pump[YY](hop4.n3.YY_ZX,hop4.n3.YY_ZX)+(pump[YY](hop5.n3.YY_ZX,hop5.n3.YY_ZX)+(pump[YY](hop6.n3.YY_ZX,hop6.n3.YY_ZX)+(pump[YY](hop7.n3.YY_ZX,hop7.n3.YY_ZX)+(pump[YY](hop8.n3.YY_ZX,hop8.n3.YY_ZX)+(pump[YY](hop9.n3.YY_ZX,hop9.n3.YY_ZX)+(pump[YY](hop10.n3.YY_ZX,hop10.n3.YY_ZX)+(pump[YY](hop11.n3.YY_ZX,hop11.n3.YY_ZX)+(pump[YY](hop12.n3.YY_ZX,hop12.n3.YY_ZX)+(pump[YY](hop13.n3.YY_ZX,hop13.n3.YY_ZX)+(pump[YY](hop14.n3.YY_ZX,hop14.n3.YY_ZX)+(pump[YY](hop15.n3.YY_ZX,hop15.n3.YY_ZX)+(pump[YY](hop16.n3.YY_ZX,hop16.n3.YY_ZX)+(pump[YY](hop17.n3.YY_ZX,hop17.n3.YY_ZX)+(pump[YY](hop18.n3.YY_ZX,hop18.n3.YY_ZX)+(pump[YY](hop19.n3.YY_ZX,hop19.n3.YY_ZX)+(pump[YY](hop20.n3.YY_ZX,hop20.n3.YY_ZX)+(pump[YY](hop21.n3.YY_ZX,hop21.n3.YY_ZX)+(hop22.n3.ZX_YY+(hop23.n2.YY+((hop24+hop25)+(hop26+hop27))))))))))))))))))))))))))`, F=0.9010, success_prob=0.0658, rate=234.9630, cost=282. (11 `beam_search` calls, 7108.9s.)
+- **N=10**: paper's `E_max`=100, min. feasible `E_max`=60, best schedule found there: `end_optimistic.n3.YY_ZX`, F=0.9063, success_prob=0.6196, rate=6195.9511, cost=60. (7 `beam_search` calls, 79.2s.)
+- **N=11**: paper's `E_max`=110, min. feasible `E_max`=66, best schedule found there: `link.n3.YY_ZX`, F=0.9282, success_prob=0.5573, rate=5066.5521, cost=66. (7 `beam_search` calls, 120.2s.)
+- **N=12**: paper's `E_max`=120, min. feasible `E_max`=73, best schedule found there: `link.n3.YY_ZX`, F=0.9222, success_prob=0.5285, rate=4403.9523, cost=72. (7 `beam_search` calls, 159.7s.)
+- **N=13**: paper's `E_max`=130, min. feasible `E_max`=79, best schedule found there: `link.n3.YY_ZX`, F=0.9163, success_prob=0.5011, rate=3854.7761, cost=78. (7 `beam_search` calls, 230.1s.)
+- **N=14**: paper's `E_max`=140, min. feasible `E_max`=84, best schedule found there: `link.n3.YY_ZX`, F=0.9104, success_prob=0.4752, rate=3394.1664, cost=84. (7 `beam_search` calls, 290.1s.)
+- **N=15**: paper's `E_max`=150, min. feasible `E_max`=90, best schedule found there: `link.n3.YY_ZX`, F=0.9047, success_prob=0.4506, rate=3003.9213, cost=90. (7 `beam_search` calls, 393.4s.)
+- **N=16**: paper's `E_max`=160, min. feasible `E_max`=128, best schedule found there: `link.n4.YY_ZX_YY`, F=0.9003, success_prob=0.3095, rate=1934.3196, cost=128. (8 `beam_search` calls, 571.4s.)
+- **N=17**: paper's `E_max`=170, min. feasible `E_max`=150, best schedule found there: `beam.span.(pump[YY](hop0.n3.YY_ZX,hop0.n3.YY_ZX)+(pump[YY](hop1.n3.YY_ZX,hop1.n3.YY_ZX)+(pump[YY](hop2.n3.YY_ZX,hop2.n3.YY_ZX)+(pump[YY](hop3.n3.YY_ZX,hop3.n3.YY_ZX)+(pump[YY](hop4.n3.YY_ZX,hop4.n3.YY_ZX)+(pump[YY](hop5.n3.YY_ZX,hop5.n3.YY_ZX)+(pump[YY](hop6.n3.YY_ZX,hop6.n3.YY_ZX)+(pump[YY](hop7.n3.YY_ZX,hop7.n3.YY_ZX)+(pump[YY](hop8.n3.YY_ZX,hop8.n3.YY_ZX)+(pump[YY](hop9.n3.YY_ZX,hop9.n3.YY_ZX)+(pump[YY](hop10.n3.YY_ZX,hop10.n3.YY_ZX)+(hop11.n3.ZX_YY+(hop12.n2.YY+((hop13+hop14)+(hop15+hop16)))))))))))))))`, F=0.9032, success_prob=0.2465, rate=1449.8993, cost=150. (7 `beam_search` calls, 628.7s.)
+- **N=18**: paper's `E_max`=180, min. feasible `E_max`=162, best schedule found there: `beam.span.(pump[YY](hop0.n3.YY_ZX,hop0.n3.YY_ZX)+(pump[YY](hop1.n3.YY_ZX,hop1.n3.YY_ZX)+(pump[YY](hop2.n3.YY_ZX,hop2.n3.YY_ZX)+(pump[YY](hop3.n3.YY_ZX,hop3.n3.YY_ZX)+(pump[YY](hop4.n3.YY_ZX,hop4.n3.YY_ZX)+(pump[YY](hop5.n3.YY_ZX,hop5.n3.YY_ZX)+(pump[YY](hop6.n3.YY_ZX,hop6.n3.YY_ZX)+(pump[YY](hop7.n3.YY_ZX,hop7.n3.YY_ZX)+(pump[YY](hop8.n3.YY_ZX,hop8.n3.YY_ZX)+(pump[YY](hop9.n3.YY_ZX,hop9.n3.YY_ZX)+(pump[YY](hop10.n3.YY_ZX,hop10.n3.YY_ZX)+(pump[YY](hop11.n3.YY_ZX,hop11.n3.YY_ZX)+(hop12.n3.ZX_YY+(hop13.n2.YY+((hop14+hop15)+(hop16+hop17))))))))))))))))`, F=0.9030, success_prob=0.2186, rate=1214.4122, cost=162. (8 `beam_search` calls, 915.7s.)
+- **N=19**: paper's `E_max`=190, min. feasible `E_max`=175, best schedule found there: `beam.span.(pump[YY](hop0.n3.YY_ZX,hop0.n3.YY_ZX)+(pump[YY](hop1.n3.YY_ZX,hop1.n3.YY_ZX)+(pump[YY](hop2.n3.YY_ZX,hop2.n3.YY_ZX)+(pump[YY](hop3.n3.YY_ZX,hop3.n3.YY_ZX)+(pump[YY](hop4.n3.YY_ZX,hop4.n3.YY_ZX)+(pump[YY](hop5.n3.YY_ZX,hop5.n3.YY_ZX)+(pump[YY](hop6.n3.YY_ZX,hop6.n3.YY_ZX)+(pump[YY](hop7.n3.YY_ZX,hop7.n3.YY_ZX)+(pump[YY](hop8.n3.YY_ZX,hop8.n3.YY_ZX)+(pump[YY](hop9.n3.YY_ZX,hop9.n3.YY_ZX)+(pump[YY](hop10.n3.YY_ZX,hop10.n3.YY_ZX)+(pump[YY](hop11.n3.YY_ZX,hop11.n3.YY_ZX)+(pump[YY](hop12.n3.YY_ZX,hop12.n3.YY_ZX)+(hop13.n3.ZX_YY+(hop14.n2.YY+((hop15+hop16)+(hop17+hop18)))))))))))))))))`, F=0.9028, success_prob=0.1939, rate=1020.3212, cost=174. (8 `beam_search` calls, 1073.1s.)
+- **N=20**: paper's `E_max`=200, min. feasible `E_max`=187, best schedule found there: `beam.span.(pump[YY](hop0.n3.YY_ZX,hop0.n3.YY_ZX)+(pump[YY](hop1.n3.YY_ZX,hop1.n3.YY_ZX)+(pump[YY](hop2.n3.YY_ZX,hop2.n3.YY_ZX)+(pump[YY](hop3.n3.YY_ZX,hop3.n3.YY_ZX)+(pump[YY](hop4.n3.YY_ZX,hop4.n3.YY_ZX)+(pump[YY](hop5.n3.YY_ZX,hop5.n3.YY_ZX)+(pump[YY](hop6.n3.YY_ZX,hop6.n3.YY_ZX)+(pump[YY](hop7.n3.YY_ZX,hop7.n3.YY_ZX)+(pump[YY](hop8.n3.YY_ZX,hop8.n3.YY_ZX)+(pump[YY](hop9.n3.YY_ZX,hop9.n3.YY_ZX)+(pump[YY](hop10.n3.YY_ZX,hop10.n3.YY_ZX)+(pump[YY](hop11.n3.YY_ZX,hop11.n3.YY_ZX)+(pump[YY](hop12.n3.YY_ZX,hop12.n3.YY_ZX)+(pump[YY](hop13.n3.YY_ZX,hop13.n3.YY_ZX)+(hop14.n3.ZX_YY+(hop15.n2.YY+((hop16+hop17)+(hop18+hop19))))))))))))))))))`, F=0.9026, success_prob=0.1719, rate=859.6317, cost=186. (8 `beam_search` calls, 1230.7s.)
+- **N=21**: paper's `E_max`=210, min. feasible `E_max`=199, best schedule found there: `beam.span.(pump[YY](hop0.n3.YY_ZX,hop0.n3.YY_ZX)+(pump[YY](hop1.n3.YY_ZX,hop1.n3.YY_ZX)+(pump[YY](hop2.n3.YY_ZX,hop2.n3.YY_ZX)+(pump[YY](hop3.n3.YY_ZX,hop3.n3.YY_ZX)+(pump[YY](hop4.n3.YY_ZX,hop4.n3.YY_ZX)+(pump[YY](hop5.n3.YY_ZX,hop5.n3.YY_ZX)+(pump[YY](hop6.n3.YY_ZX,hop6.n3.YY_ZX)+(pump[YY](hop7.n3.YY_ZX,hop7.n3.YY_ZX)+(pump[YY](hop8.n3.YY_ZX,hop8.n3.YY_ZX)+(pump[YY](hop9.n3.YY_ZX,hop9.n3.YY_ZX)+(pump[YY](hop10.n3.YY_ZX,hop10.n3.YY_ZX)+(pump[YY](hop11.n3.YY_ZX,hop11.n3.YY_ZX)+(pump[YY](hop12.n3.YY_ZX,hop12.n3.YY_ZX)+(pump[YY](hop13.n3.YY_ZX,hop13.n3.YY_ZX)+(pump[YY](hop14.n3.YY_ZX,hop14.n3.YY_ZX)+(hop15.n3.ZX_YY+(hop16.n2.YY+((hop17+hop18)+(hop19+hop20)))))))))))))))))))`, F=0.9024, success_prob=0.1525, rate=726.0641, cost=198. (8 `beam_search` calls, 1223.5s.)
+- **N=22**: paper's `E_max`=220, min. feasible `E_max`=211, best schedule found there: `beam.span.(pump[YY](hop0.n3.YY_ZX,hop0.n3.YY_ZX)+(pump[YY](hop1.n3.YY_ZX,hop1.n3.YY_ZX)+(pump[YY](hop2.n3.YY_ZX,hop2.n3.YY_ZX)+(pump[YY](hop3.n3.YY_ZX,hop3.n3.YY_ZX)+(pump[YY](hop4.n3.YY_ZX,hop4.n3.YY_ZX)+(pump[YY](hop5.n3.YY_ZX,hop5.n3.YY_ZX)+(pump[YY](hop6.n3.YY_ZX,hop6.n3.YY_ZX)+(pump[YY](hop7.n3.YY_ZX,hop7.n3.YY_ZX)+(pump[YY](hop8.n3.YY_ZX,hop8.n3.YY_ZX)+(pump[YY](hop9.n3.YY_ZX,hop9.n3.YY_ZX)+(pump[YY](hop10.n3.YY_ZX,hop10.n3.YY_ZX)+(pump[YY](hop11.n3.YY_ZX,hop11.n3.YY_ZX)+(pump[YY](hop12.n3.YY_ZX,hop12.n3.YY_ZX)+(pump[YY](hop13.n3.YY_ZX,hop13.n3.YY_ZX)+(pump[YY](hop14.n3.YY_ZX,hop14.n3.YY_ZX)+(pump[YY](hop15.n3.YY_ZX,hop15.n3.YY_ZX)+(hop16.n3.ZX_YY+(hop17.n2.YY+((hop18+hop19)+(hop20+hop21))))))))))))))))))))`, F=0.9022, success_prob=0.1352, rate=614.6438, cost=210. (8 `beam_search` calls, 1457.6s.)
+- **N=23**: paper's `E_max`=230, min. feasible `E_max`=222, best schedule found there: `beam.span.(pump[YY](hop0.n3.YY_ZX,hop0.n3.YY_ZX)+(pump[YY](hop1.n3.YY_ZX,hop1.n3.YY_ZX)+(pump[YY](hop2.n3.YY_ZX,hop2.n3.YY_ZX)+(pump[YY](hop3.n3.YY_ZX,hop3.n3.YY_ZX)+(pump[YY](hop4.n3.YY_ZX,hop4.n3.YY_ZX)+(pump[YY](hop5.n3.YY_ZX,hop5.n3.YY_ZX)+(pump[YY](hop6.n3.YY_ZX,hop6.n3.YY_ZX)+(pump[YY](hop7.n3.YY_ZX,hop7.n3.YY_ZX)+(pump[YY](hop8.n3.YY_ZX,hop8.n3.YY_ZX)+(pump[YY](hop9.n3.YY_ZX,hop9.n3.YY_ZX)+(pump[YY](hop10.n3.YY_ZX,hop10.n3.YY_ZX)+(pump[YY](hop11.n3.YY_ZX,hop11.n3.YY_ZX)+(pump[YY](hop12.n3.YY_ZX,hop12.n3.YY_ZX)+(pump[YY](hop13.n3.YY_ZX,hop13.n3.YY_ZX)+(pump[YY](hop14.n3.YY_ZX,hop14.n3.YY_ZX)+(pump[YY](hop15.n3.YY_ZX,hop15.n3.YY_ZX)+(pump[YY](hop16.n3.YY_ZX,hop16.n3.YY_ZX)+(hop17.n3.ZX_YY+(hop18.n2.YY+((hop19+hop20)+(hop21+hop22)))))))))))))))))))))`, F=0.9020, success_prob=0.1199, rate=521.3990, cost=222. (8 `beam_search` calls, 1713.4s.)
+- **N=24**: paper's `E_max`=240, min. feasible `E_max`=234, best schedule found there: `beam.span.(pump[YY](hop0.n3.YY_ZX,hop0.n3.YY_ZX)+(pump[YY](hop1.n3.YY_ZX,hop1.n3.YY_ZX)+(pump[YY](hop2.n3.YY_ZX,hop2.n3.YY_ZX)+(pump[YY](hop3.n3.YY_ZX,hop3.n3.YY_ZX)+(pump[YY](hop4.n3.YY_ZX,hop4.n3.YY_ZX)+(pump[YY](hop5.n3.YY_ZX,hop5.n3.YY_ZX)+(pump[YY](hop6.n3.YY_ZX,hop6.n3.YY_ZX)+(pump[YY](hop7.n3.YY_ZX,hop7.n3.YY_ZX)+(pump[YY](hop8.n3.YY_ZX,hop8.n3.YY_ZX)+(pump[YY](hop9.n3.YY_ZX,hop9.n3.YY_ZX)+(pump[YY](hop10.n3.YY_ZX,hop10.n3.YY_ZX)+(pump[YY](hop11.n3.YY_ZX,hop11.n3.YY_ZX)+(pump[YY](hop12.n3.YY_ZX,hop12.n3.YY_ZX)+(pump[YY](hop13.n3.YY_ZX,hop13.n3.YY_ZX)+(pump[YY](hop14.n3.YY_ZX,hop14.n3.YY_ZX)+(pump[YY](hop15.n3.YY_ZX,hop15.n3.YY_ZX)+(pump[YY](hop16.n3.YY_ZX,hop16.n3.YY_ZX)+(pump[YY](hop17.n3.YY_ZX,hop17.n3.YY_ZX)+(hop18.n3.ZX_YY+(hop19.n2.YY+((hop20+hop21)+(hop22+hop23))))))))))))))))))))))`, F=0.9018, success_prob=0.1064, rate=443.1377, cost=234. (8 `beam_search` calls, 2144.8s.)
+- **N=26**: paper's `E_max`=260, min. feasible `E_max`=258, best schedule found there: `beam.span.(pump[YY](hop0.n3.YY_ZX,hop0.n3.YY_ZX)+(pump[YY](hop1.n3.YY_ZX,hop1.n3.YY_ZX)+(pump[YY](hop2.n3.YY_ZX,hop2.n3.YY_ZX)+(pump[YY](hop3.n3.YY_ZX,hop3.n3.YY_ZX)+(pump[YY](hop4.n3.YY_ZX,hop4.n3.YY_ZX)+(pump[YY](hop5.n3.YY_ZX,hop5.n3.YY_ZX)+(pump[YY](hop6.n3.YY_ZX,hop6.n3.YY_ZX)+(pump[YY](hop7.n3.YY_ZX,hop7.n3.YY_ZX)+(pump[YY](hop8.n3.YY_ZX,hop8.n3.YY_ZX)+(pump[YY](hop9.n3.YY_ZX,hop9.n3.YY_ZX)+(pump[YY](hop10.n3.YY_ZX,hop10.n3.YY_ZX)+(pump[YY](hop11.n3.YY_ZX,hop11.n3.YY_ZX)+(pump[YY](hop12.n3.YY_ZX,hop12.n3.YY_ZX)+(pump[YY](hop13.n3.YY_ZX,hop13.n3.YY_ZX)+(pump[YY](hop14.n3.YY_ZX,hop14.n3.YY_ZX)+(pump[YY](hop15.n3.YY_ZX,hop15.n3.YY_ZX)+(pump[YY](hop16.n3.YY_ZX,hop16.n3.YY_ZX)+(pump[YY](hop17.n3.YY_ZX,hop17.n3.YY_ZX)+(pump[YY](hop18.n3.YY_ZX,hop18.n3.YY_ZX)+(pump[YY](hop19.n3.YY_ZX,hop19.n3.YY_ZX)+(hop20.n3.ZX_YY+(hop21.n2.YY+((hop22+hop23)+(hop24+hop25))))))))))))))))))))))))`, F=0.9014, success_prob=0.0836, rate=321.7217, cost=258. (9 `beam_search` calls, 3103.9s.)
+- **N=28**: paper's `E_max`=280, min. feasible `E_max`=283, best schedule found there: `beam.span.(pump[YY](hop0.n3.YY_ZX,hop0.n3.YY_ZX)+(pump[YY](hop1.n3.YY_ZX,hop1.n3.YY_ZX)+(pump[YY](hop2.n3.YY_ZX,hop2.n3.YY_ZX)+(pump[YY](hop3.n3.YY_ZX,hop3.n3.YY_ZX)+(pump[YY](hop4.n3.YY_ZX,hop4.n3.YY_ZX)+(pump[YY](hop5.n3.YY_ZX,hop5.n3.YY_ZX)+(pump[YY](hop6.n3.YY_ZX,hop6.n3.YY_ZX)+(pump[YY](hop7.n3.YY_ZX,hop7.n3.YY_ZX)+(pump[YY](hop8.n3.YY_ZX,hop8.n3.YY_ZX)+(pump[YY](hop9.n3.YY_ZX,hop9.n3.YY_ZX)+(pump[YY](hop10.n3.YY_ZX,hop10.n3.YY_ZX)+(pump[YY](hop11.n3.YY_ZX,hop11.n3.YY_ZX)+(pump[YY](hop12.n3.YY_ZX,hop12.n3.YY_ZX)+(pump[YY](hop13.n3.YY_ZX,hop13.n3.YY_ZX)+(pump[YY](hop14.n3.YY_ZX,hop14.n3.YY_ZX)+(pump[YY](hop15.n3.YY_ZX,hop15.n3.YY_ZX)+(pump[YY](hop16.n3.YY_ZX,hop16.n3.YY_ZX)+(pump[YY](hop17.n3.YY_ZX,hop17.n3.YY_ZX)+(pump[YY](hop18.n3.YY_ZX,hop18.n3.YY_ZX)+(pump[YY](hop19.n3.YY_ZX,hop19.n3.YY_ZX)+(pump[YY](hop20.n3.YY_ZX,hop20.n3.YY_ZX)+(pump[YY](hop21.n3.YY_ZX,hop21.n3.YY_ZX)+(hop22.n3.ZX_YY+(hop23.n2.YY+((hop24+hop25)+(hop26+hop27))))))))))))))))))))))))))`, F=0.9010, success_prob=0.0658, rate=234.9630, cost=282. (11 `beam_search` calls, 7108.9s.)
 
 ## Method caveats
 
-- Bisection assumes feasibility is monotonically non-decreasing in `e_max`. This holds for the exact DP frontier by construction, but `beam_search`'s beam-pruning is a heuristic on top of that -- no non-monotonicity was observed in this run's cached probe history (see `results.csv` for the final endpoints), but this was not exhaustively verified at every intermediate probe.
-- The minimum feasible `e_max` is pinned down to within `+/- 2`, not exactly, consistent with `e_max` being discretized by Gen-node counts anyway.
+- Bisection assumes feasibility is monotonically non-decreasing in `E_max`. This holds for the exact DP frontier by construction, but `beam_search`'s beam-pruning is a heuristic on top of that -- no non-monotonicity was observed in this run's cached probe history (see `results.csv` for the final endpoints), but this was not exhaustively verified at every intermediate probe.
+- The minimum feasible `E_max` is pinned down to within `+/- 2`, not exactly, consistent with `E_max` being discretized by Gen-node counts anyway.
 
 ## Reproducing
 
@@ -63,4 +63,4 @@ source .venv/bin/activate
 PYTHONPATH=src python3 -u experiments/sweep_min_budget_vs_n.py
 ```
 
-Total wall-clock time: ~2446s.
+Total wall-clock time: ~22444s.
